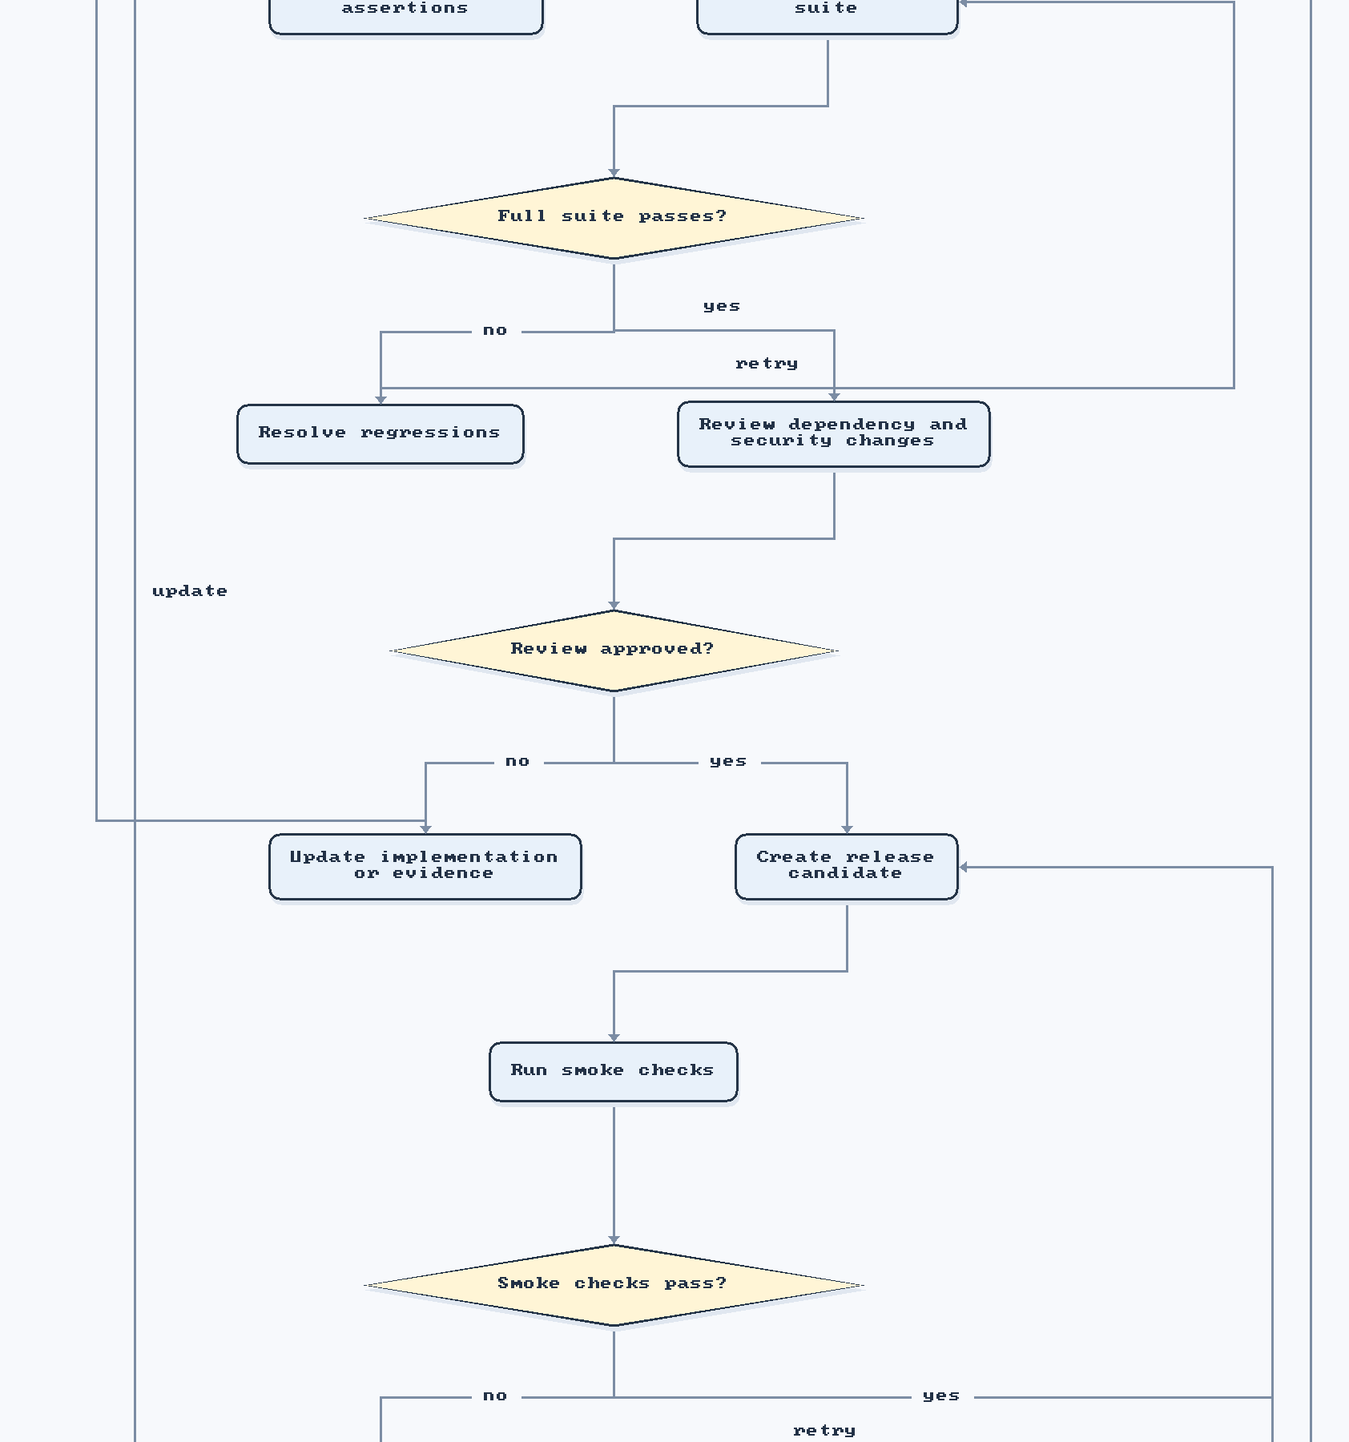
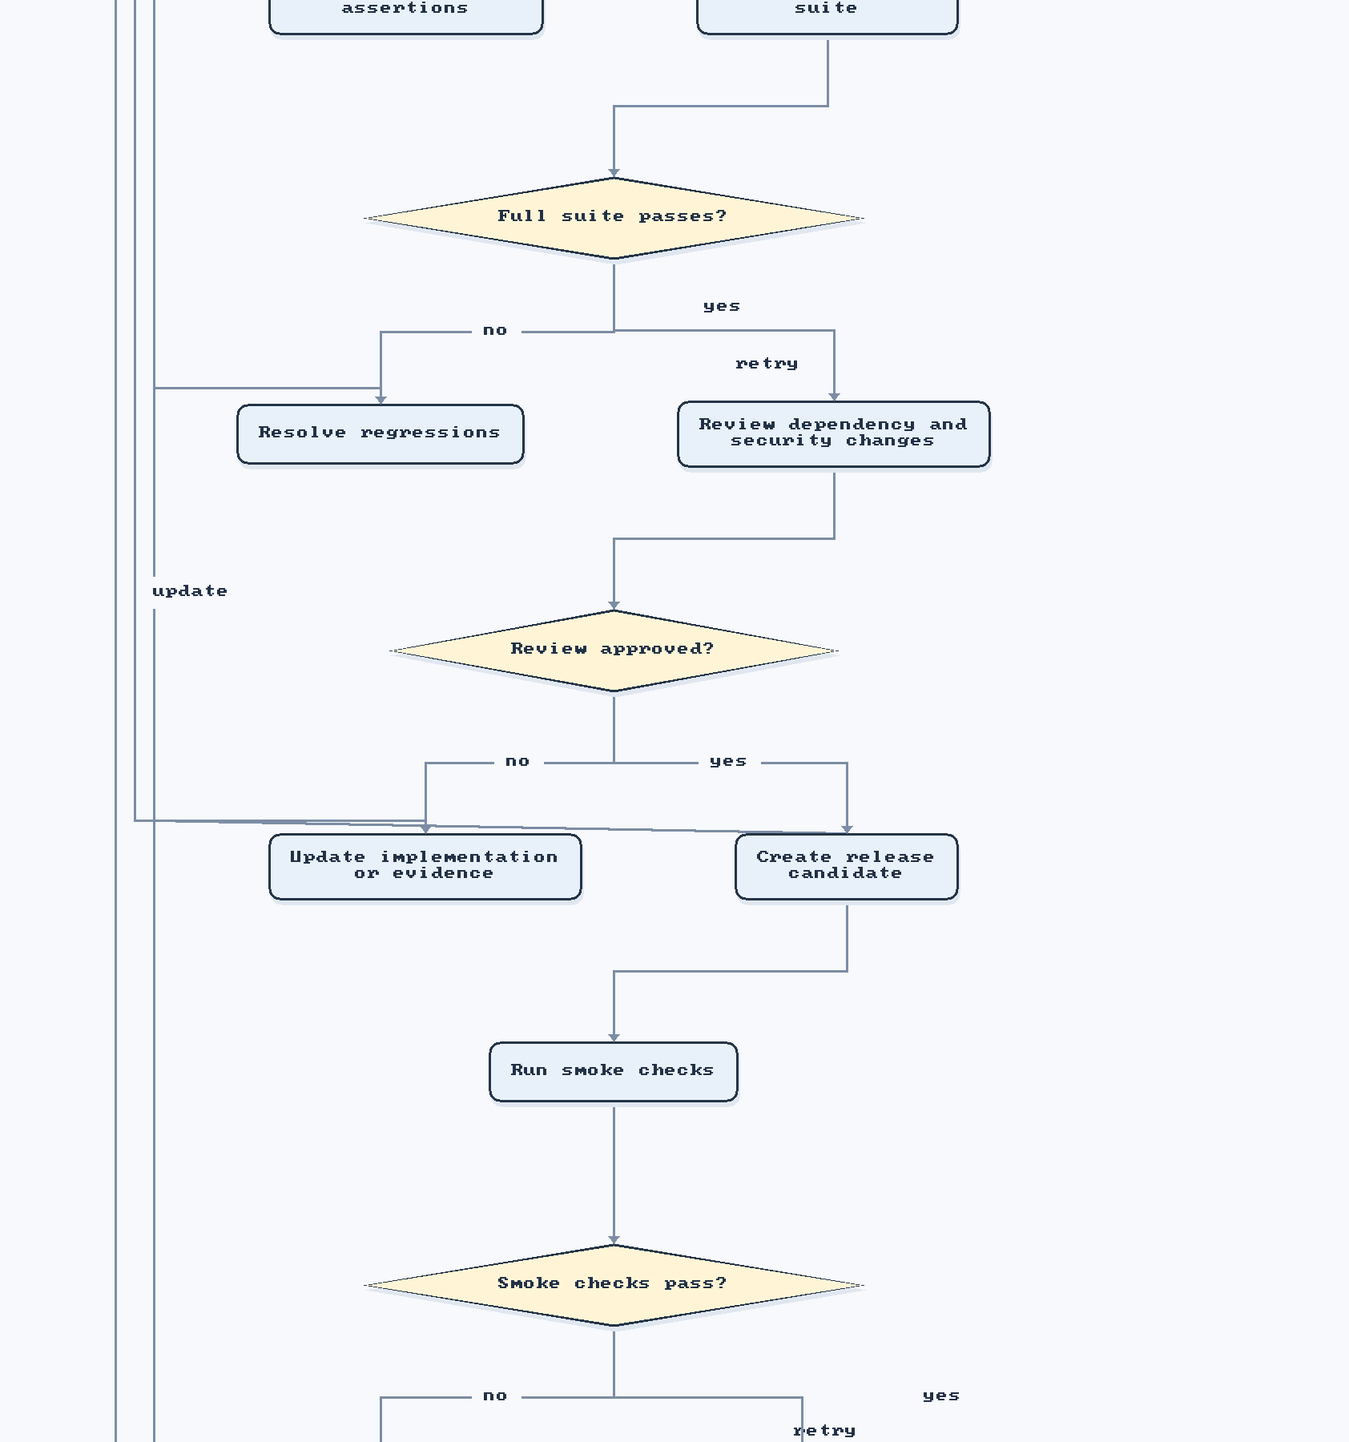
Reduce crossings in completed flowchart routes

Changed region(s): [[0.0618, 0.0, 0.1235, 1.0]]

diff --git a/src/BrownPants.Cli/Analysis/LocalFlowchartLayout.cs b/src/BrownPants.Cli/Analysis/LocalFlowchartLayout.cs
@@ -123,6 +123,10 @@ internal static class LocalFlowchartLayoutEngine
         var nodesById = laidOutNodes.ToDictionary(node => node.Node.Id, StringComparer.Ordinal);
         var laidOutEdges = RouteEdges(document, ranks, nodesById, options.Direction, width, height,
             leftLanes, rightLanes, topLanes, bottomLanes, terminalEdgeOrders);
+        if (options.Direction == LocalFlowchartDirection.TopDown
+            && document.Edges.Count <= MaximumAdjacentRouteOptimizationEdges
+            && (long)nodesById.Count * document.Edges.Count <= MaximumLocalSkipRoutingComparisons)
+            laidOutEdges = RefineTopDownRoutes(laidOutEdges, ranks, nodesById, width, leftLanes, rightLanes);
         var layout = new LocalFlowchartLayout(width, height, nodeRegionLeft, laidOutNodes, laidOutEdges, options.Direction);
         return layout with { Diagnostics = DiagnoseCrossings(layout) };
     }
@@ -559,6 +563,125 @@ internal static class LocalFlowchartLayoutEngine
             .Select(candidate => candidate.Route)
             .FirstOrDefault() ?? fallback;
     }
+
+    private static LocalFlowchartLayoutEdge[] RefineTopDownRoutes(LocalFlowchartLayoutEdge[] edges,
+        IReadOnlyDictionary<string, int> ranks, IReadOnlyDictionary<string, LocalFlowchartLayoutNode> nodes,
+        int width, int leftLaneCount, int rightLaneCount)
+    {
+        var refined = edges.ToArray();
+        var rankTops = nodes.Values.GroupBy(node => node.Rank)
+            .ToDictionary(group => group.Key, group => group.Min(node => node.Y));
+        for (var pass = 0; pass < 2; pass++)
+        {
+            var changed = false;
+            for (var edgeIndex = 0; edgeIndex < refined.Length; edgeIndex++)
+            {
+                var edge = refined[edgeIndex];
+                var source = nodes[edge.Edge.FromId];
+                var target = nodes[edge.Edge.ToId];
+                if (edge.Edge.ImportedWaypoints is { Count: > 0 } || source.Node.Id == target.Node.Id)
+                    continue;
+
+                var sourceRank = ranks[source.Node.Id];
+                var targetRank = ranks[target.Node.Id];
+                var candidates = new List<IReadOnlyList<LocalFlowchartLayoutPoint>> { edge.Route };
+                if (targetRank == sourceRank + 1)
+                {
+                    var sourceX = source.X + source.Width / 2;
+                    var sourceY = source.Y + source.Height;
+                    var targetX = target.X + target.Width / 2;
+                    var targetY = target.Y;
+                    var middleY = sourceY + Math.Max(12, (targetY - sourceY) / 2);
+                    candidates.Add([new(sourceX, sourceY), new(sourceX, middleY), new(targetX, middleY), new(targetX, targetY)]);
+                    candidates.AddRange(AdjacentSideRoutes(source, target, middleY, width, leftLaneCount, rightLaneCount));
+                }
+                else if (targetRank <= sourceRank)
+                {
+                    var sourceX = source.X + source.Width / 2;
+                    var sourceY = source.Y;
+                    var targetX = target.X + target.Width / 2;
+                    var sourceChannelY = Math.Max(0, rankTops[sourceRank] - 16);
+                    var targetChannelY = Math.Max(0, rankTops[targetRank] - 16);
+                    var currentLeft = edge.Route.Min(point => point.X);
+                    var currentRight = edge.Route.Max(point => point.X);
+                    foreach (var laneIndex in NearestLaneIndexes(leftLaneCount, index => Margin + index * RouteLaneGap, currentLeft))
+                    {
+                        var lane = Margin + laneIndex * RouteLaneGap;
+                        candidates.Add([new(sourceX, sourceY), new(sourceX, sourceChannelY), new(lane, sourceChannelY),
+                            new(lane, targetChannelY), new(targetX, target.Y)]);
+                    }
+                    foreach (var laneIndex in NearestLaneIndexes(rightLaneCount,
+                                 index => width - Margin - rightLaneCount * RouteLaneGap + RouteLaneGap + index * RouteLaneGap,
+                                 currentRight))
+                    {
+                        var lane = width - Margin - rightLaneCount * RouteLaneGap + RouteLaneGap + laneIndex * RouteLaneGap;
+                        candidates.Add([new(sourceX, sourceY), new(sourceX, sourceChannelY), new(lane, sourceChannelY),
+                            new(lane, target.Y + target.Height / 2), new(target.X + target.Width, target.Y + target.Height / 2)]);
+                    }
+                }
+                else
+                {
+                    continue;
+                }
+
+                var otherEdges = refined.Where((_, index) => index != edgeIndex).ToArray();
+                var best = candidates.Where(candidate => RouteAvoidsNodes(candidate, nodes.Values,
+                        source.Node.Id, target.Node.Id))
+                    .Select(candidate =>
+                    {
+                        var crossings = otherEdges.Count(other => other.Edge.FromId != source.Node.Id
+                            && other.Edge.ToId != source.Node.Id && other.Edge.FromId != target.Node.Id
+                            && other.Edge.ToId != target.Node.Id && RoutesCross(candidate, other.Route));
+                        var length = candidate.Zip(candidate.Skip(1)).Sum(segment =>
+                            Math.Abs(segment.First.X - segment.Second.X) + Math.Abs(segment.First.Y - segment.Second.Y));
+                        return (Route: candidate, Crossings: crossings, Length: length);
+                    })
+                    .OrderBy(candidate => candidate.Crossings)
+                    .ThenBy(candidate => candidate.Length)
+                    .FirstOrDefault();
+
+                if (best.Route is null || best.Crossings > CountUnrelatedCrossings(edge, otherEdges))
+                    continue;
+                if (!best.Route.SequenceEqual(edge.Route))
+                {
+                    refined[edgeIndex] = edge with { Route = best.Route };
+                    changed = true;
+                }
+            }
+
+            if (!changed) break;
+        }
+
+        return refined;
+    }
+
+    private static IEnumerable<int> NearestLaneIndexes(int count, Func<int, int> laneX, int referenceX)
+    {
+        var nearest = new List<(long Distance, int Index)>(4);
+        for (var index = 0; index < count; index++)
+        {
+            var candidate = (Distance: Math.Abs((long)laneX(index) - referenceX), Index: index);
+            var insertionIndex = nearest.FindIndex(item => candidate.Distance < item.Distance
+                || candidate.Distance == item.Distance && candidate.Index < item.Index);
+            if (insertionIndex < 0)
+            {
+                if (nearest.Count < 4) nearest.Add(candidate);
+            }
+            else
+            {
+                nearest.Insert(insertionIndex, candidate);
+                if (nearest.Count > 4) nearest.RemoveAt(4);
+            }
+        }
+
+        return nearest.Select(item => item.Index);
+    }
+
+    private static int CountUnrelatedCrossings(LocalFlowchartLayoutEdge edge,
+        IReadOnlyList<LocalFlowchartLayoutEdge> others) => others.Count(other =>
+        other.Edge.FromId != edge.Edge.FromId && other.Edge.ToId != edge.Edge.FromId
+        && other.Edge.FromId != edge.Edge.ToId && other.Edge.ToId != edge.Edge.ToId
+        && RoutesCross(edge.Route, other.Route));
 
     private static IReadOnlyList<LocalFlowchartLayoutPoint>? FindLocalSkipRoute(
         LocalFlowchartLayoutNode source, LocalFlowchartLayoutNode target, int sourceX, int sourceY,

diff --git a/tests/BrownPants.Tests/LocalFlowchartTests.cs b/tests/BrownPants.Tests/LocalFlowchartTests.cs
@@ -212,7 +212,7 @@ public sealed class LocalFlowchartTests : IDisposable
         var layout = LocalFlowchartLayoutEngine.Create(document);
         Write("tiled-release-pipeline.md", source);
 
-        Assert.InRange(CountUnrelatedEdgeCrossings(layout), 0, 2);
+        Assert.Equal(0, CountUnrelatedEdgeCrossings(layout));
 
         const int tileSize = 1800;
         const int overlap = 128;

diff --git a/README.md b/README.md
@@ -23,21 +23,21 @@
 
 ## Brownfield first
 
-**Brownfield** means changing software that already exists and has people, data, or other systems depending on it. Its rules may live in source code, project settings, tests, or integrations rather than in current documentation. A new system without those existing dependencies is often called **greenfield**.
+**Brownfield development** means changing a system that is already in use. It may have years of behavior, data, integrations, and user expectations that nobody has written down in one place. Those rules often live in source code, project settings, tests, and connections to other systems. **Greenfield** work starts with fewer of these existing obligations.
 
-**Spec-driven development (SDD)** means agreeing on the problem, intended behavior, and checks before implementation. A spec describes the destination. Brownfield work also needs a map of the system today, or the spec may miss a caller, compatibility promise, or test that protects behavior people rely on.
+**Spec-driven development (SDD)** agrees on the problem, intended behavior, and checks before implementation. A spec describes the destination; brownfield work also needs a reliable picture of the starting point. Without it, a clear spec can still miss a caller, a compatibility promise, or a test that protects behavior people rely on. That is why repository context belongs in the work before the team finalizes its plan and acceptance criteria.
 
-Think of renovating an occupied building: the plan describes the change; a survey finds the wiring and load-bearing walls already there. BrownPants provides that survey for software. It gathers source-linked evidence for the team to review. The team—not the analyzer—decides what the product should do.
+Think of renovating an occupied building: the plan describes the change, while a survey finds the wiring and load-bearing walls already there. BrownPants provides that survey for software. It gathers source-linked evidence for people and agents to check; the team decides what the product should do.
 
-### From existing code to a verified change
+### How BrownPants fits into SDD
 
-Suppose a team must change how an old order importer retries failed records. “Retry failed orders” is not yet a safe implementation plan: the team first needs to find the importer, its callers, stored retry state, and relevant tests. BrownPants helps find those facts; the product owner and team choose the intended retry behavior and acceptance criteria.
+Imagine a request to change how an old order importer retries failed records. “Retry failed orders” states an intent, but not which importer path runs, who calls it, what retry state is stored, or which tests protect it. BrownPants helps the team investigate those questions before it commits to behavior and acceptance criteria.
 
-1. **Survey.** `brownpants inspect <repo>` inventories languages, projects, and recognized patterns. `brownpants evidence <repo> --clue "order retry"` collects focused findings with file locations.
-2. **Trace impact.** `brownpants impact <repo> --changed <path>` follows compiler-resolved managed callers and lists native or interop matches as candidates. Evidence helps focus review; it does not prove runtime execution or test coverage.
-3. **Specify the change.** Combine the user need with verified system facts. Write observable acceptance criteria and say how each will be checked; review uncertain findings before relying on them.
-4. **Plan and implement.** Use Spec Kit, OpenSpec, or another SDD workflow to turn the spec into tasks and code. BrownPants integrations can refresh repository context, flag edits to hashed acceptance criteria for review, and connect tasks to recorded evidence.
-5. **Verify and hand off.** Run the agreed checks, review affected paths, and give QA the criteria, evidence, and known analysis gaps.
+1. **Map the repository.** `brownpants inspect <repo>` inventories languages, projects, and recognized patterns. This gives the team an initial map without building the software.
+2. **Find relevant evidence.** `brownpants evidence <repo> --clue "order retry"` returns focused findings with file locations. After identifying a changed file, `brownpants impact <repo> --changed <path>` follows compiler-resolved managed callers and labels native or interop matches as candidates.
+3. **Write the spec.** The team combines the user's need with evidence it has reviewed, then defines observable acceptance criteria and how each will be checked. BrownPants informs this decision; it does not decide the intended behavior.
+4. **Plan and implement.** Spec Kit, OpenSpec, or another SDD workflow turns the spec into tasks and code. BrownPants integrations can refresh repository context, flag edits to hashed acceptance criteria for review, and connect tasks to recorded evidence.
+5. **Verify and hand off.** Run the agreed checks, review affected paths, and give QA the criteria, evidence, and known analysis gaps. Candidate evidence does not prove runtime execution or test coverage.
 
 BrownPants is built for existing systems: its .NET 10 host can inspect legacy .NET Framework 4.x C# and Visual Basic with Roslyn without building those projects. It also inventories C/C++, MFC, and C++/CLI markers and candidate evidence for factories, dependency injection, interop, and framework patterns. When compiler context is available, semantic mode resolves managed calls and explicit constructor use, including target-typed and generic construction. Findings state their evidence level and analysis limits.
 
@@ -206,7 +206,7 @@ For a compact example, this release-check chart is 1188 × 1208 pixels and was c
 
 ![Compact release check flow from proposed change through focused tests and human review](docs/flows/compact-release-check.png)
 
-The larger [release pipeline source](docs/flows/tiled-release-pipeline.md) renders to four ordered 1800-pixel tiles with 128-pixel overlaps. The [tile manifest](docs/flows/tiled-release-pipeline/tiled-release-pipeline.tiles.json) records their order and bounds; open [tile 1](docs/flows/tiled-release-pipeline/tiled-release-pipeline-x0000000-y0000000.png), [tile 2](docs/flows/tiled-release-pipeline/tiled-release-pipeline-x0000000-y0001672.png), [tile 3](docs/flows/tiled-release-pipeline/tiled-release-pipeline-x0000000-y0003344.png), and [tile 4](docs/flows/tiled-release-pipeline/tiled-release-pipeline-x0000000-y0005016.png) in order. This example reports two remaining connector crossings where retry paths return upstream, including canvas coordinates in the CLI diagnostic; all declared connections are preserved.
+The larger [release pipeline source](docs/flows/tiled-release-pipeline.md) renders to four ordered 1800-pixel tiles with 128-pixel overlaps. The [tile manifest](docs/flows/tiled-release-pipeline/tiled-release-pipeline.tiles.json) records their order and bounds; open [tile 1](docs/flows/tiled-release-pipeline/tiled-release-pipeline-x0000000-y0000000.png), [tile 2](docs/flows/tiled-release-pipeline/tiled-release-pipeline-x0000000-y0001672.png), [tile 3](docs/flows/tiled-release-pipeline/tiled-release-pipeline-x0000000-y0003344.png), and [tile 4](docs/flows/tiled-release-pipeline/tiled-release-pipeline-x0000000-y0005016.png) in order. The router now checks short forward and return paths against the complete set of connectors; this example has no unrelated connector crossings, and all declared connections are preserved.
 
 Regenerate the compact image with `dotnet run --project src/BrownPants.Cli -- diagram . docs/flows/compact-release-check.md --output docs/flows/compact-release-check.png`. Regenerate the tiled bundle with `dotnet run --project src/BrownPants.Cli -- diagram . docs/flows/tiled-release-pipeline.md --output docs/flows/tiled-release-pipeline.png --tile-size 1800 --overlap 128 --overwrite`.
 

diff --git a/specs/068-polished-local-flowcharts/verification.md b/specs/068-polished-local-flowcharts/verification.md
@@ -168,3 +168,10 @@ All chart features have CLI and README/agent entry points, but they do not yet p
 - The first 2,200-node stress run confirmed a storage defect: each of 4,308 tile sidecars repeated the entire 1.73 MB graph, totaling 7,451,293,428 XML bytes.
 - Feature 071 changes tiled bundles to store one complete master and standalone viewport XML beside each image. Repeating the same 2,200-node render now produces the same 4,308 tiles with 8,818,944 XML bytes total (8.41 MiB); all sidecars import through BrownPants' parser, all manifest paths resolve, and SHA-256 checks over all 8,618 artifacts match across repeat runs.
 - The standalone tile views preserve route/label intersections and endpoint cells, including bounded off-page coordinates. Their size and interchange contract is documented in [the manifest contract](../071-tile-local-editable-sources/contracts/tile-bundle-manifest.md); test and package evidence is recorded in [Feature 071 verification](../071-tile-local-editable-sources/verification.md).
+
+## Completed-route crossing refinement
+
+- Added a bounded second pass for top-down layouts with at most 2,000 edges. It rechecks adjacent forward and return-edge routes against the completed graph, considers deterministic alternatives in the reserved side lanes, and rejects candidates that intersect unrelated nodes or increase the route's unrelated crossing count. Declared edge endpoints and labels remain unchanged.
+- The release-pipeline fixture now has zero unrelated connector crossings while retaining all 28 nodes and 34 connections. `Diagram_ReleasePipelineShowcaseHasOrderedTilesAndContinuityOverlap` now requires zero crossings, and all four PNG tiles plus editable tile sidecars and the master XML were regenerated.
+- Visual review of the first two 1800-pixel tiles confirmed the upstream paths remain visible across the shared tile boundary. This is implementer review only and does not satisfy the five-stakeholder usability gate in T012/T029.
+- `dotnet build BrownPants.sln -c Release --no-restore` passed with zero warnings/errors; `dotnet test BrownPants.sln -c Release --no-build` passed 371/371. `pwsh -NoProfile -File scripts/qa-chart-engine.ps1` matched the writer caller chart against independent Roslyn impact output: 5 callers, 6 call sites, and 12 XML edges; 14 unresolved delegate targets remain disclosed. Legacy unmarked `TestResults` entries were preserved by cleanup.

diff --git a/docs/flows/tiled-release-pipeline.md b/docs/flows/tiled-release-pipeline.md
@@ -1,6 +1,6 @@
 # Release pipeline review
 
-This large example follows a proposed change through compilation, tests, security review, human pull-request approval, deployment, and recovery paths. BrownPants renders it as four ordered 1800-pixel tiles with 128-pixel shared edges. The manifest identifies exact origins and overlap. The renderer reports two remaining crossings where retry routes return upstream and prints their canvas coordinates; review those locations alongside the editable source.
+This large example follows a proposed change through compilation, tests, security review, human pull-request approval, deployment, and recovery paths. BrownPants renders it as four ordered 1800-pixel tiles with 128-pixel shared edges. The manifest identifies exact origins and overlap. The renderer's crossing-aware route refinement keeps every declared connection and eliminates unrelated connector crossings in this example.
 
 Regenerate from the repository root with `dotnet run --project src/BrownPants.Cli -- diagram . docs/flows/tiled-release-pipeline.md --output docs/flows/tiled-release-pipeline.png --tile-size 1800 --overlap 128 --overwrite`.
 

diff --git a/docs/chart-review-scorecard.md b/docs/chart-review-scorecard.md
@@ -5,7 +5,7 @@ Use five independent reviewers. Let each person inspect the charts before explai
 ## Viewing setup
 
 - **Compact chart:** [release check](flows/compact-release-check.png), 1188 × 1208 pixels, viewed at native size.
-- **Large chart:** [release pipeline tile 1](flows/tiled-release-pipeline/tiled-release-pipeline-x0000000-y0000000.png), then continue in [manifest order](flows/tiled-release-pipeline/tiled-release-pipeline.tiles.json). Tiles are 1800 pixels with 128-pixel overlaps. The renderer reports two remaining connector crossings.
+- **Large chart:** [release pipeline tile 1](flows/tiled-release-pipeline/tiled-release-pipeline-x0000000-y0000000.png), then continue in [manifest order](flows/tiled-release-pipeline/tiled-release-pipeline.tiles.json). Tiles are 1800 pixels with 128-pixel overlaps. The renderer reports no unrelated connector crossings for this example.
 - Ask reviewers to inspect both examples without a verbal walkthrough and rate whether the main path is clear at native size. If they zoom for detail, record it.
 
 ## Record one row per reviewer and chart

diff --git a/specs/068-polished-local-flowcharts/tasks.md b/specs/068-polished-local-flowcharts/tasks.md
@@ -112,3 +112,4 @@ Deliver US1 first: a beautiful readable showcase chart with geometry checks and 
 - [x] T056 [US2] Expose `brownpants chart flow` for exact C# and Visual Basic method symbols using the existing offline PNG/diagrams.net writer, direction/tiling/overwrite rules, and an evidence-limited plain-English summary.
 - [x] T057 [US2] Verify C# and Visual Basic behavior charts against Roslyn CFG fixtures, deterministic PNG/XML, CLI diagnostics, Release build, full tests, and acceptance hash/evidence checks; record a compact BrownPants QA example.
 - [x] T058 [US1] Keep PNG arrowhead tips visible above supported target-shape borders, use the connector color consistently, and verify all supported shapes with pixel-level tests (AC-027, SC-021).
+- [x] T059 [US1] Refine top-down adjacent and return-edge routes against the completed graph using a bounded deterministic pass; require zero unrelated crossings on the release-pipeline showcase without dropping declared connections (AC-020).
